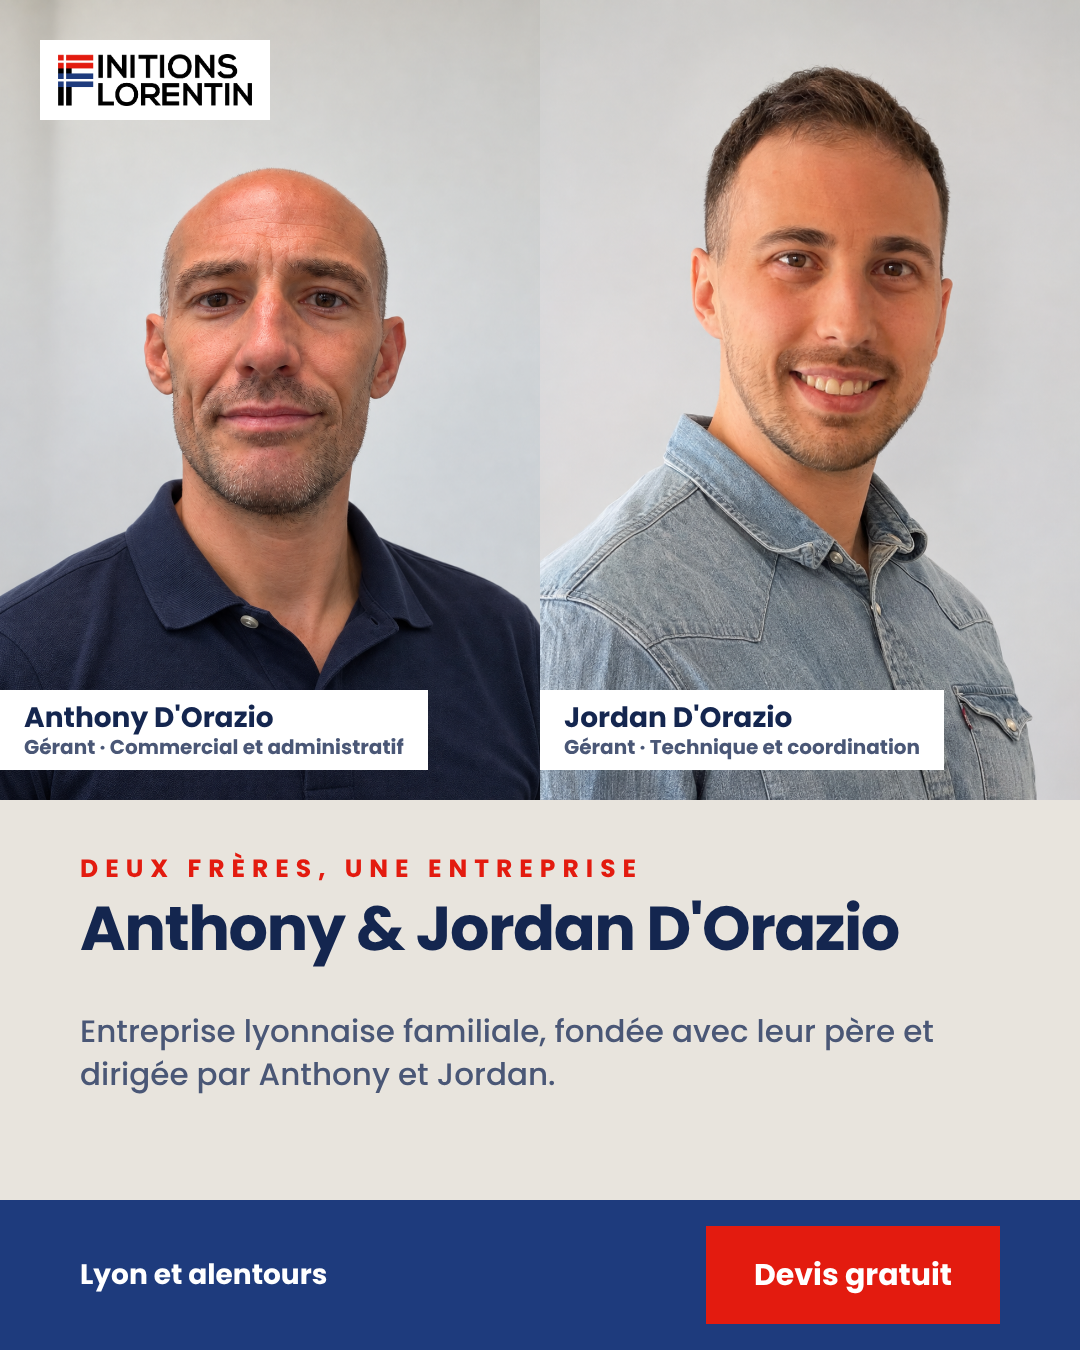
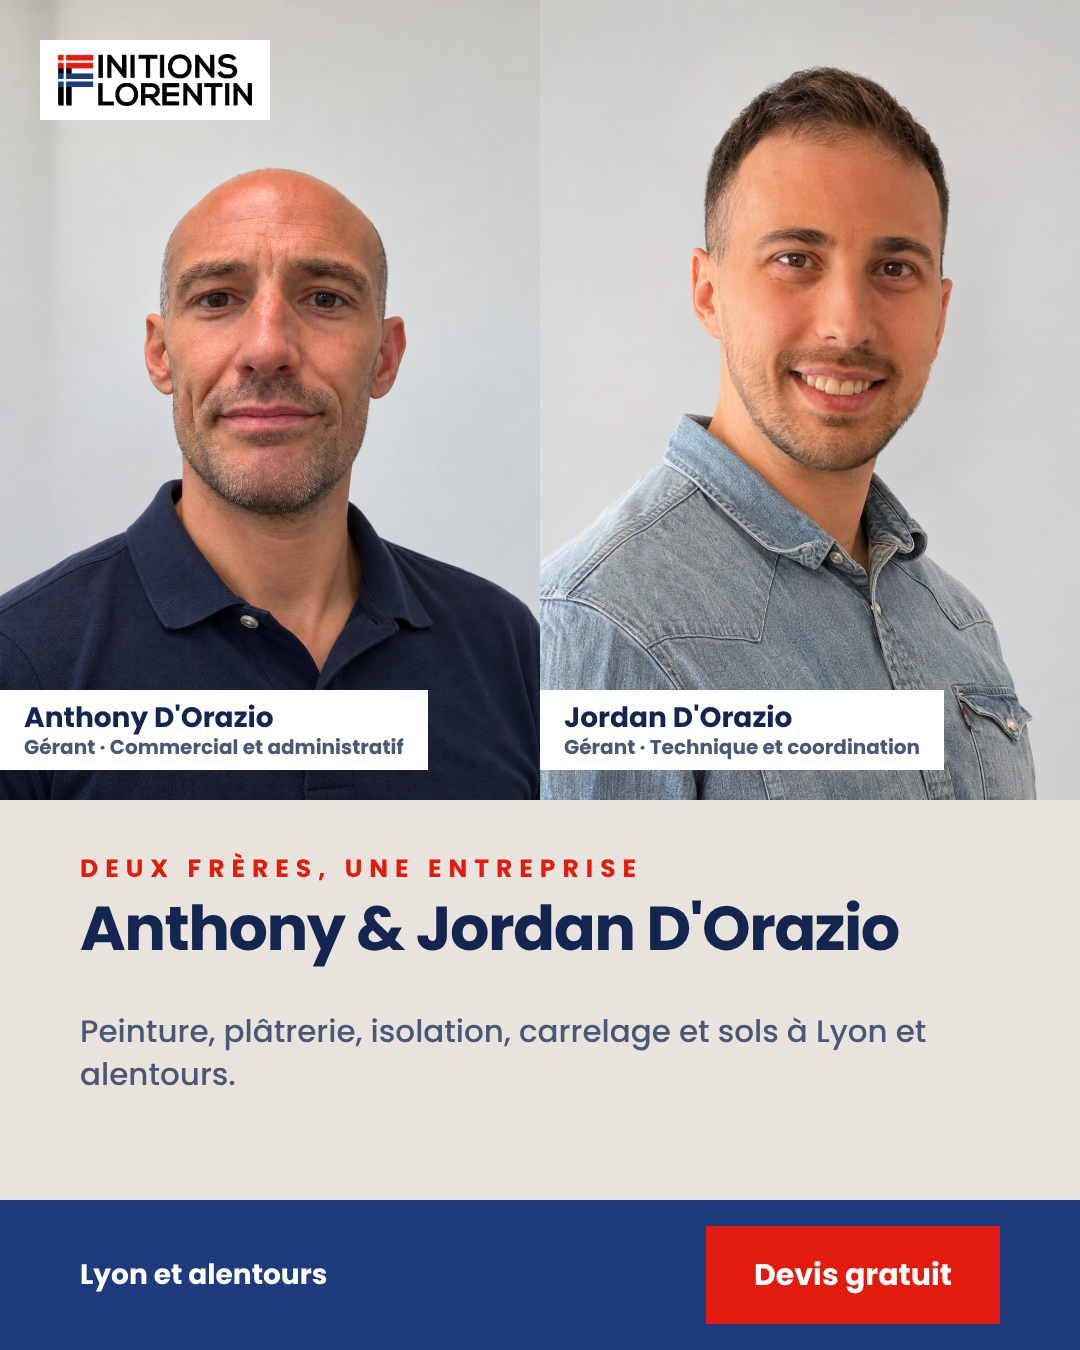
Duo: sans histoire du père sur l'image
Claude-Session: https://claude.ai/code/session_01LyxsXe8xqb1EZ7c4QQAmih

Changed region(s): [[0.0917, 0.7467, 0.8556, 0.8089]]

diff --git a/tools/duo_equipe.py b/tools/duo_equipe.py
@@ -18,7 +18,7 @@ def html(a,j):
 <body><img class="p" style="left:0" src="{b(a)}"><img class="p" style="left:540px" src="{b(j)}">
 <img class="lg" src="{R.L}"><div class="n" style="left:0">Anthony D'Orazio<small>Gérant · Commercial et administratif</small></div><div class="n" style="left:540px">Jordan D'Orazio<small>Gérant · Technique et coordination</small></div>
 <div class="k">DEUX FRÈRES, UNE ENTREPRISE</div><div class="t">Anthony &amp; Jordan D'Orazio</div>
-<div class="s">Entreprise lyonnaise familiale, fondée avec leur père et dirigée par Anthony et Jordan.</div>
+<div class="s">Peinture, plâtrerie, isolation, carrelage et sols à Lyon et alentours.</div>
 <div class="foot"><div class="fl">Lyon et alentours</div><div class="btn">Devis gratuit</div></div>'''
 async def main(a,j,out):
     from playwright.async_api import async_playwright
